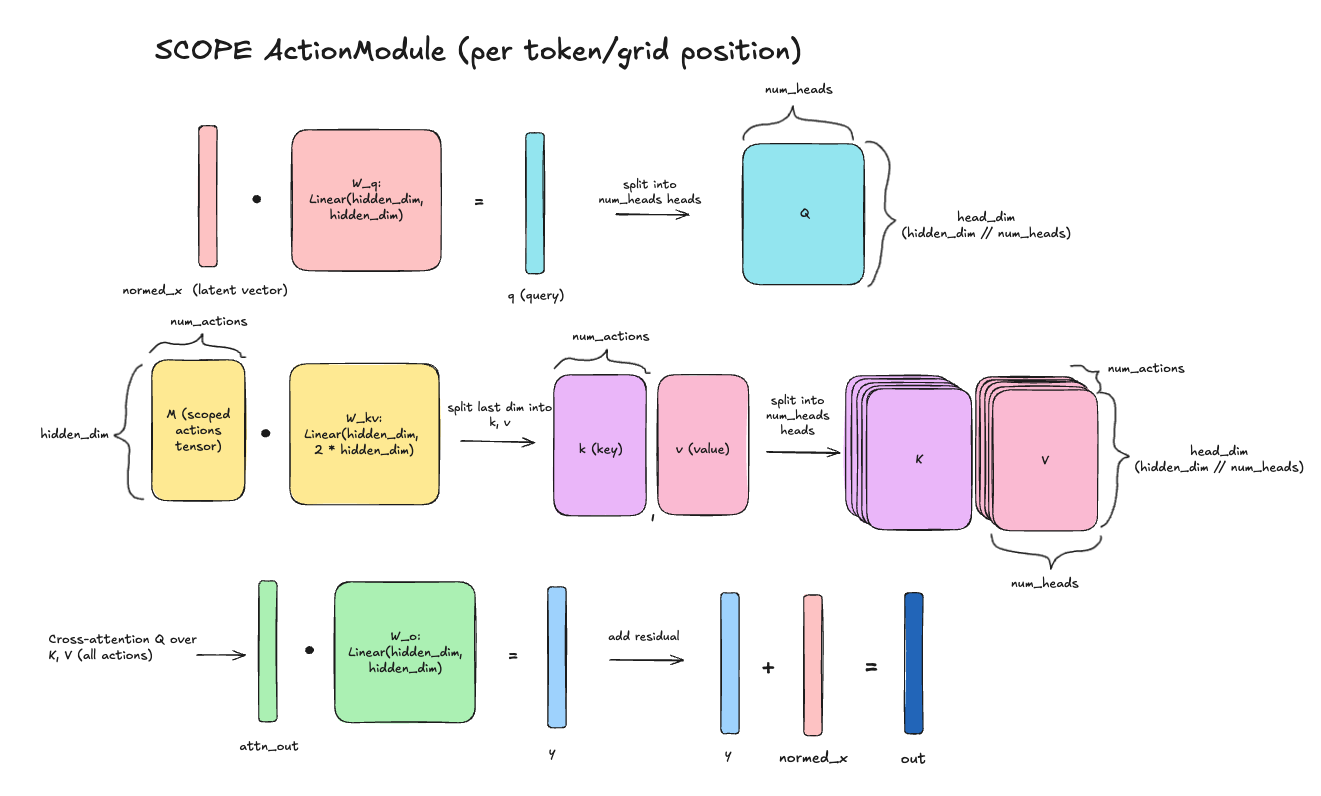
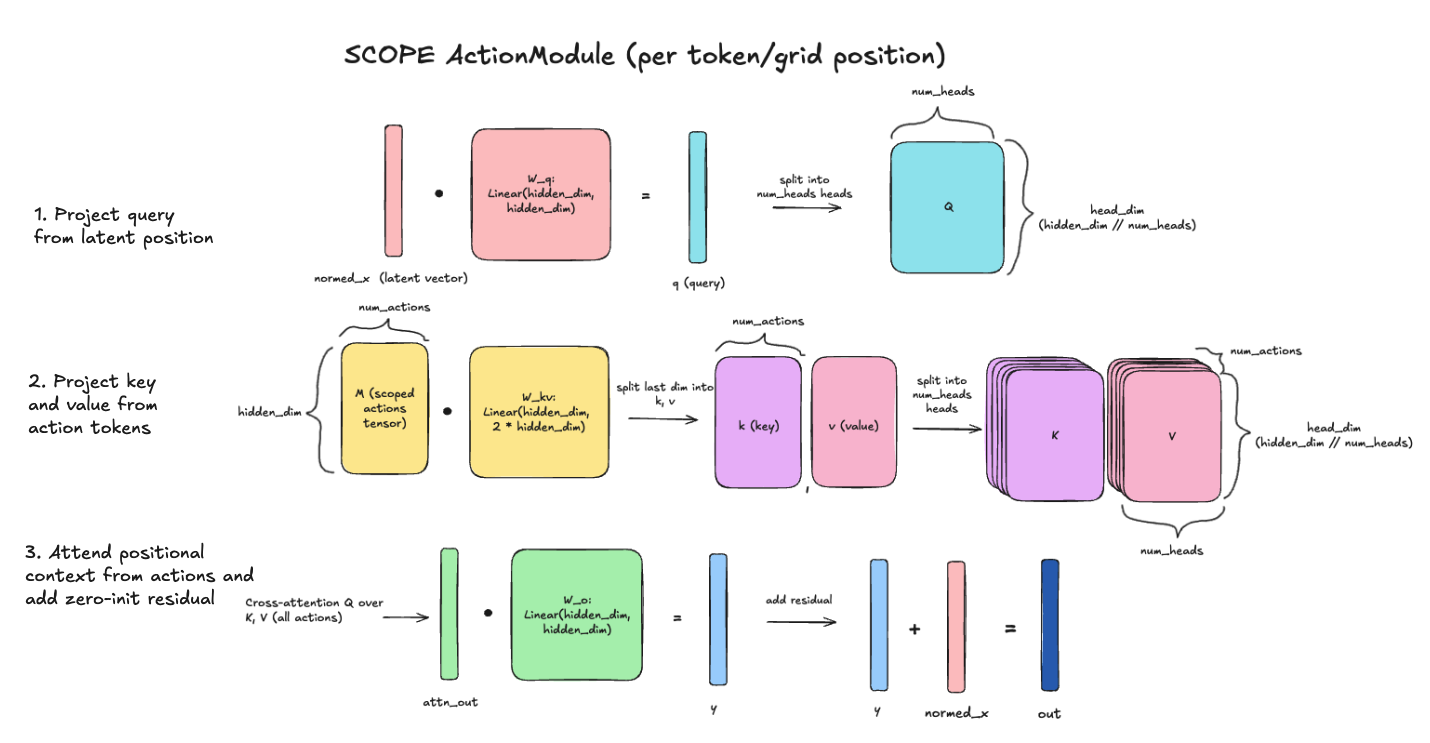
.

Changed region(s): [[0.0, 0.031, 0.9932, 0.7739], [0.0, 0.712, 0.7449, 0.9906], [0.031, 0.1548, 0.2173, 0.3715]]

diff --git a/README.md b/README.md
@@ -103,7 +103,7 @@ cross-attention. Any difference in generation can be attributed to the SCOPE mec
 2. **Train the codec** using steps (clone/install, environment, dataset build from the TeaPearce HDF5 files, and the `torchrun` launch) from: [train_codec](train_codec.md).
 3. **Train the world model** on a finished codec checkpoint, for either the AdaLN baseline or the SCOPE arm: [train_wm.md](train_wm.md).
 
-### Visualizations
+### Validations
 
 <table>
 <tr>
